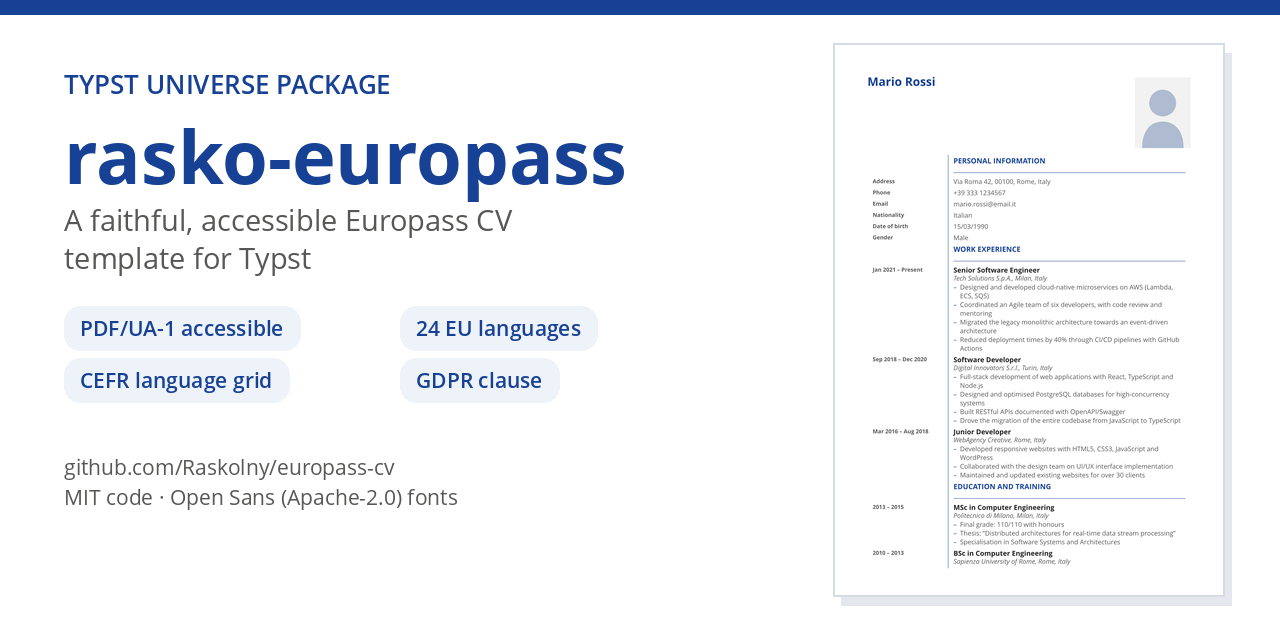
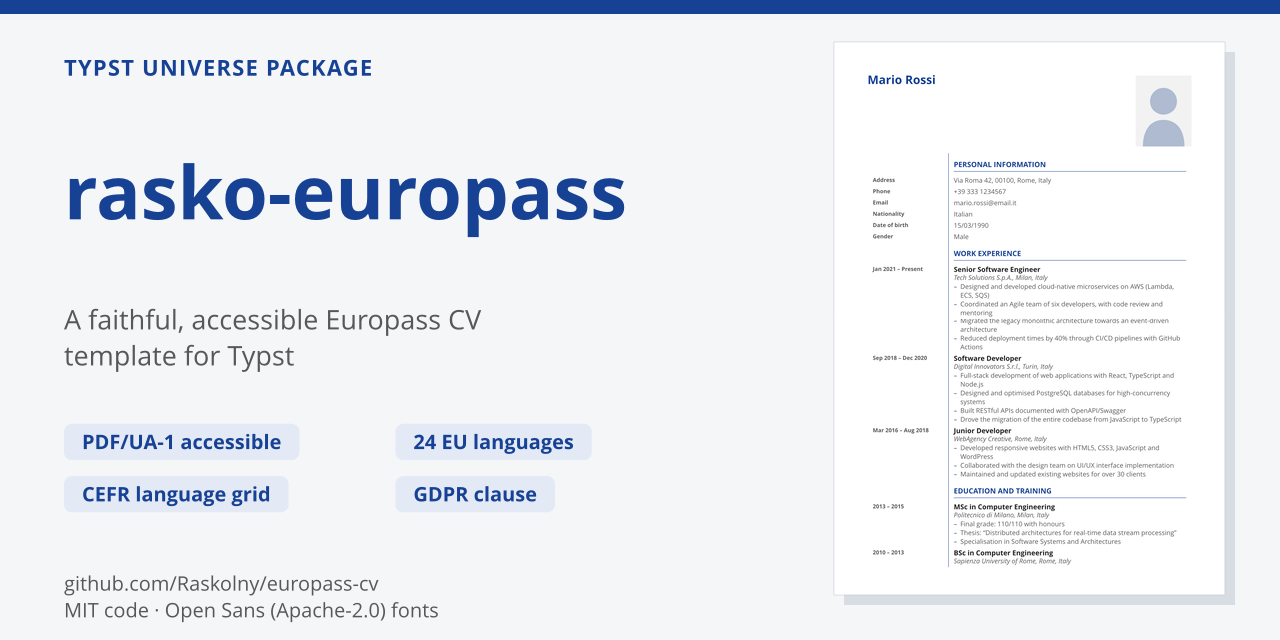
chore: housekeeping - fresh thumbnail, reproducible social card, doc coherence
Closes the four open housekeeping/coherence items:

1. thumbnail.png regenerated (it was stale since the 1.1.0 section-spacing
   change); PUBLISHING.md's "regenerate thumbnail" checkbox ticked.
2. social-preview.png regenerated from the new thumbnail, and - importantly -
   the card now has a VERSIONED generator, social-preview.typ (1280pt x 640pt
   page at --ppi 72 == 1280x640 px).  The card was previously composed ad hoc
   and could not be reproduced; future regenerations are one command,
   documented in the file header and in PUBLISHING.md.  social-preview.typ is
   added to typst.toml's exclude (dev-only, must not ship in the bundle) and to
   the typstyle --check gate.
3. The typst.toml comment claiming the vendored Open Sans "ships with the
   package" - flatly contradicting fonts being in exclude - is rewritten to
   state the real policy (Universe forbids font binaries; vendored copy serves
   repository builds only).
4. README and CONTRIBUTING no longer claim every example carries the
   placeholder portrait: lean-CV countries omit it, keeping the parameter as a
   commented-out instruction.  Both now point at discussion #3.

NOTE for the maintainer: social-preview.png must be re-uploaded manually
(Settings -> Social preview); GitHub exposes no REST endpoint for it.

All 24 examples and main.typ compile clean under --pdf-standard 1.7,ua-1;
typstyle --check passes on lib.typ, main.typ, social-preview.typ and examples.
[…]

diff --git a/PUBLISHING.md b/PUBLISHING.md
@@ -16,8 +16,10 @@ the link later forces a pointless `1.0.1` bump.
       `unknown fields in package: ["thumbnail"]`); the site picks the file up
       by convention.
 - [x] README CI badge points at the real repository
-- [ ] Regenerate `thumbnail.png` if the visual design changed:
+- [x] Regenerate `thumbnail.png` if the visual design changed:
       `typst compile --ignore-system-fonts --font-path fonts --format png --ppi 150 --pages 1 main.typ thumbnail.png`
+      (done for the 1.1.0 section-spacing change; whenever the thumbnail moves,
+      also regenerate `social-preview.png` via `social-preview.typ`).
 
 ## 1. GitHub first
 
@@ -50,10 +52,10 @@ the link later forces a pointless `1.0.1` bump.
   pdf-ua, accessibility, i18n`.
 - **Social preview**: GitHub has no REST endpoint for the Open-Graph preview
   image, so it must be uploaded in the UI:
-  *Settings → Social preview → upload `social-preview.png`* (1280×640, <1 MB,
-  generated from `thumbnail.png` with the vendored Open Sans).  Do not upload
-  `thumbnail.png` itself: it is A4 portrait and would crop badly in the 2:1
-  slot.
+  *Settings → Social preview → upload `social-preview.png`* (1280×640, <1 MB).
+  The card is generated reproducibly by `social-preview.typ` (compile command
+  in its header).  Do not upload `thumbnail.png` itself: it is A4 portrait and
+  would crop badly in the 2:1 slot.
 
 ## 4. After publication
 

diff --git a/CONTRIBUTING.md b/CONTRIBUTING.md
@@ -43,8 +43,8 @@ formatter over any PR on request.
 To check or apply locally, exactly as CI does:
 
 ```bash
-typstyle --check lib.typ main.typ examples/*.typ   # CI's gate
-typstyle -i      lib.typ main.typ examples/*.typ   # apply in place
+typstyle --check lib.typ main.typ social-preview.typ examples/*.typ   # CI's gate
+typstyle -i      lib.typ main.typ social-preview.typ examples/*.typ   # apply in place
 ```
 
 ## Adding or fixing a language
@@ -56,7 +56,10 @@ All translations live in **`lang.toml`** — do not add strings to `lib.typ`.
    personal-info labels, CEFR labels, `levels`, gender values, `photo-alt`,
    `signature-alt`, `declaration`, …).
 2. Add a matching example `examples/<code>.typ` with a persona of that
-   nationality, using the anonymous placeholder photo.
+   nationality.  Follow that country's conventions (see discussion #3 and the
+   per-example comments): lean-CV countries omit the photo, keeping the
+   parameter as a commented-out instruction; the others use the anonymous
+   placeholder photo so no real person is depicted.
 3. Run `./build.sh` and `./build-examples.sh`; both must pass.  The build is
    PDF/UA-1-strict, so a missing translation or an untagged element fails CI.
 

diff --git a/CHANGELOG.md b/CHANGELOG.md
@@ -52,6 +52,15 @@ reachable through the immutable `v1.0.0` tag.
   deliberately negative `v()`.  Measured on the rendered PDF against `1.0.0`:
   previous-section→title 7.03→15.03pt, title→rule 11.56→3.92pt, rule→content
   unchanged.
+- **Housekeeping / doc coherence** — `thumbnail.png` regenerated for the new
+  spacing and `social-preview.png` regenerated from it through a new
+  *versioned* generator, `social-preview.typ` (the card was previously composed
+  ad hoc, so it could not be reproduced); `social-preview.typ` is excluded from
+  the Universe bundle.  The `typst.toml` comment that claimed the vendored
+  fonts "ship with the package" — contradicting their presence in `exclude` —
+  is corrected.  README and CONTRIBUTING no longer claim every example carries
+  the placeholder portrait: lean-CV countries omit it, keeping the parameter as
+  a commented-out instruction.
 
 ### Planned
 
